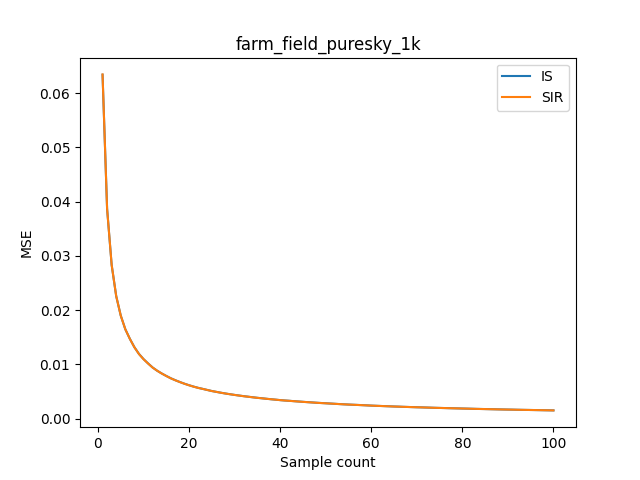
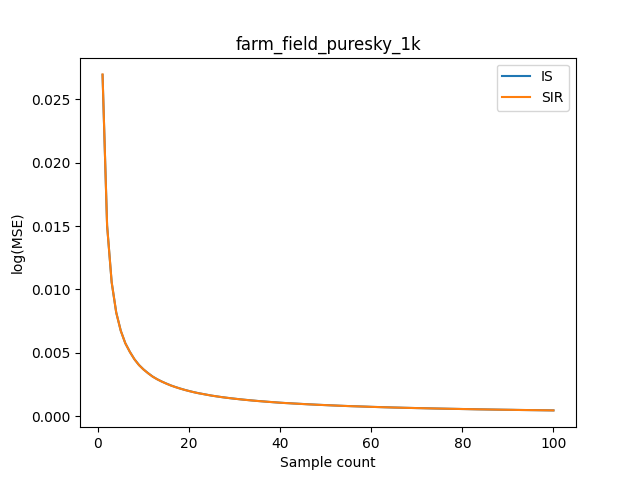
Updated results and tweaked mlt to allow continuous runs

diff --git a/render.py b/render.py
@@ -165,8 +165,10 @@ def threaded_mlt(frame, sky, width, height, scene, samples, threads):
     # record start time
     start = time.perf_counter()
     # figure for displaying image during render
+    '''
     plt.ion()
     fig, ax = plt.subplots()
+    '''
     sample_idx = 0
     # set fixed seed for bootstrap
     random.seed(1)
@@ -190,7 +192,7 @@ def threaded_mlt(frame, sky, width, height, scene, samples, threads):
     b = cdf[-1] / bootstrap_count
     # start mcmc process now
     count = 0
-    chains_count = 2048
+    chains_count = 4096
     mutations_count = int(np.ceil(float(width) * height * samples / chains_count))
     print("chain count: %d, mutation count:%d" % (chains_count, mutations_count))
     for i in range(0, chains_count):
@@ -222,19 +224,22 @@ def threaded_mlt(frame, sky, width, height, scene, samples, threads):
         print("Done Markov Chain %d/%d acceptance rate: %f" % (count, chains_count, float(sampler.accepted) / float(sampler.accepted + sampler.rejected)))
    
     for y in range(0, height):
+        rgb_row = ()
         for x in range(width):
             color = linear_to_srgb(frame.accumulation[y * width + x] / (samples))
-            frame.display_img[y][x] = np.array([color[0], color[1], color[2]])
+            #frame.display_img[y][x] = np.array([color[0], color[1], color[2]])
+            rgb_row = rgb_row + (color[0], color[1], color[2])
+        frame.img[y]=rgb_row
 
     # save image
     folder = "./results/" + sky + "_{}/"
     file = "./results/" + sky + "_{}/{}_{}_spp.png"
     if(scene.sampling == Sampling.IMPORTANCE_SAMPLING):
         folder = folder.format("mlt_is")
-        file = file.format("mlt_is", "is", (sample_idx + 1))
+        file = file.format("mlt_is", "is", (samples))
     else:
         folder = folder.format("mlt_sir")
-        file = file.format("mlt_sir", "sir", (sample_idx + 1))
+        file = file.format("mlt_sir", "sir", (samples))
 
     isExist = os.path.exists(folder)
     if isExist == False:
@@ -250,10 +255,12 @@ def threaded_mlt(frame, sky, width, height, scene, samples, threads):
     print("Render completed in: ", duration)
 
     # display finished image
+    '''
     image_display = ax.imshow(frame.display_img, extent=[0, width, 0, height])
     fig.canvas.flush_events()
     plt.show()
     plt.show(block=True)
+    '''
     print("Finished rendering - saving image")
 
 def render(threads, sky, samples, sample_type, mlt, max_bounce):
@@ -280,11 +287,14 @@ def render(threads, sky, samples, sample_type, mlt, max_bounce):
 
     # initialize scene
     scene = Scene(sample_algorithm, width, height, sky_image, max_bounce)
-    # initialize image
-    frame = Frame(width, height)
     # path trace
     if(mlt):
-        threaded_mlt(frame, sky, width, height, scene, samples, threads)
+        for i in range(1, samples + 1):
+            # initialize image
+            frame = Frame(width, height)
+            threaded_mlt(frame, sky, width, height, scene, i, threads)
     else:
+        # initialize image
+        frame = Frame(width, height)
         threaded_path_trace(frame, sky, width, height, scene, samples, threads)
     

diff --git a/analysis.py b/analysis.py
@@ -15,7 +15,7 @@ def compare_images(reference, result):
     total = 0.0
     for x in range(0, width):
         for y in range(0, height):
-            diff = luminance(srgb_to_linear(reference[y][x])) - luminance(srgb_to_linear(result[y][x]))
+            diff = np.log(luminance(srgb_to_linear(reference[y][x]))+1) - np.log(luminance(srgb_to_linear(result[y][x]))+1)
             diff2 = diff * diff
             total = total + diff2
     return total / (width * height)
@@ -58,7 +58,7 @@ def image_comparison(lighting_file, image_count):
     ax.set_title(lighting_file)
     ax.legend(algorithm)
     ax.set_xlabel("Sample count")
-    ax.set_ylabel("MSE")
+    ax.set_ylabel("log(MSE)")
     plt.savefig("./results/" + lighting_file + "_" + str(image_count) + "_samples.png")
 
 if __name__ == '__main__':

diff --git a/test_sampler.py b/test_sampler.py
@@ -7,7 +7,7 @@ from sampler import *
 
 if __name__ == '__main__':
     thread_count = 16
-    sample_count = 4
+    sample_count = 16
     sample_type = 1
     max_bounce = 3
     r.render(thread_count, "snow_field_2_puresky_1k", sample_count, sample_type, True, max_bounce)
